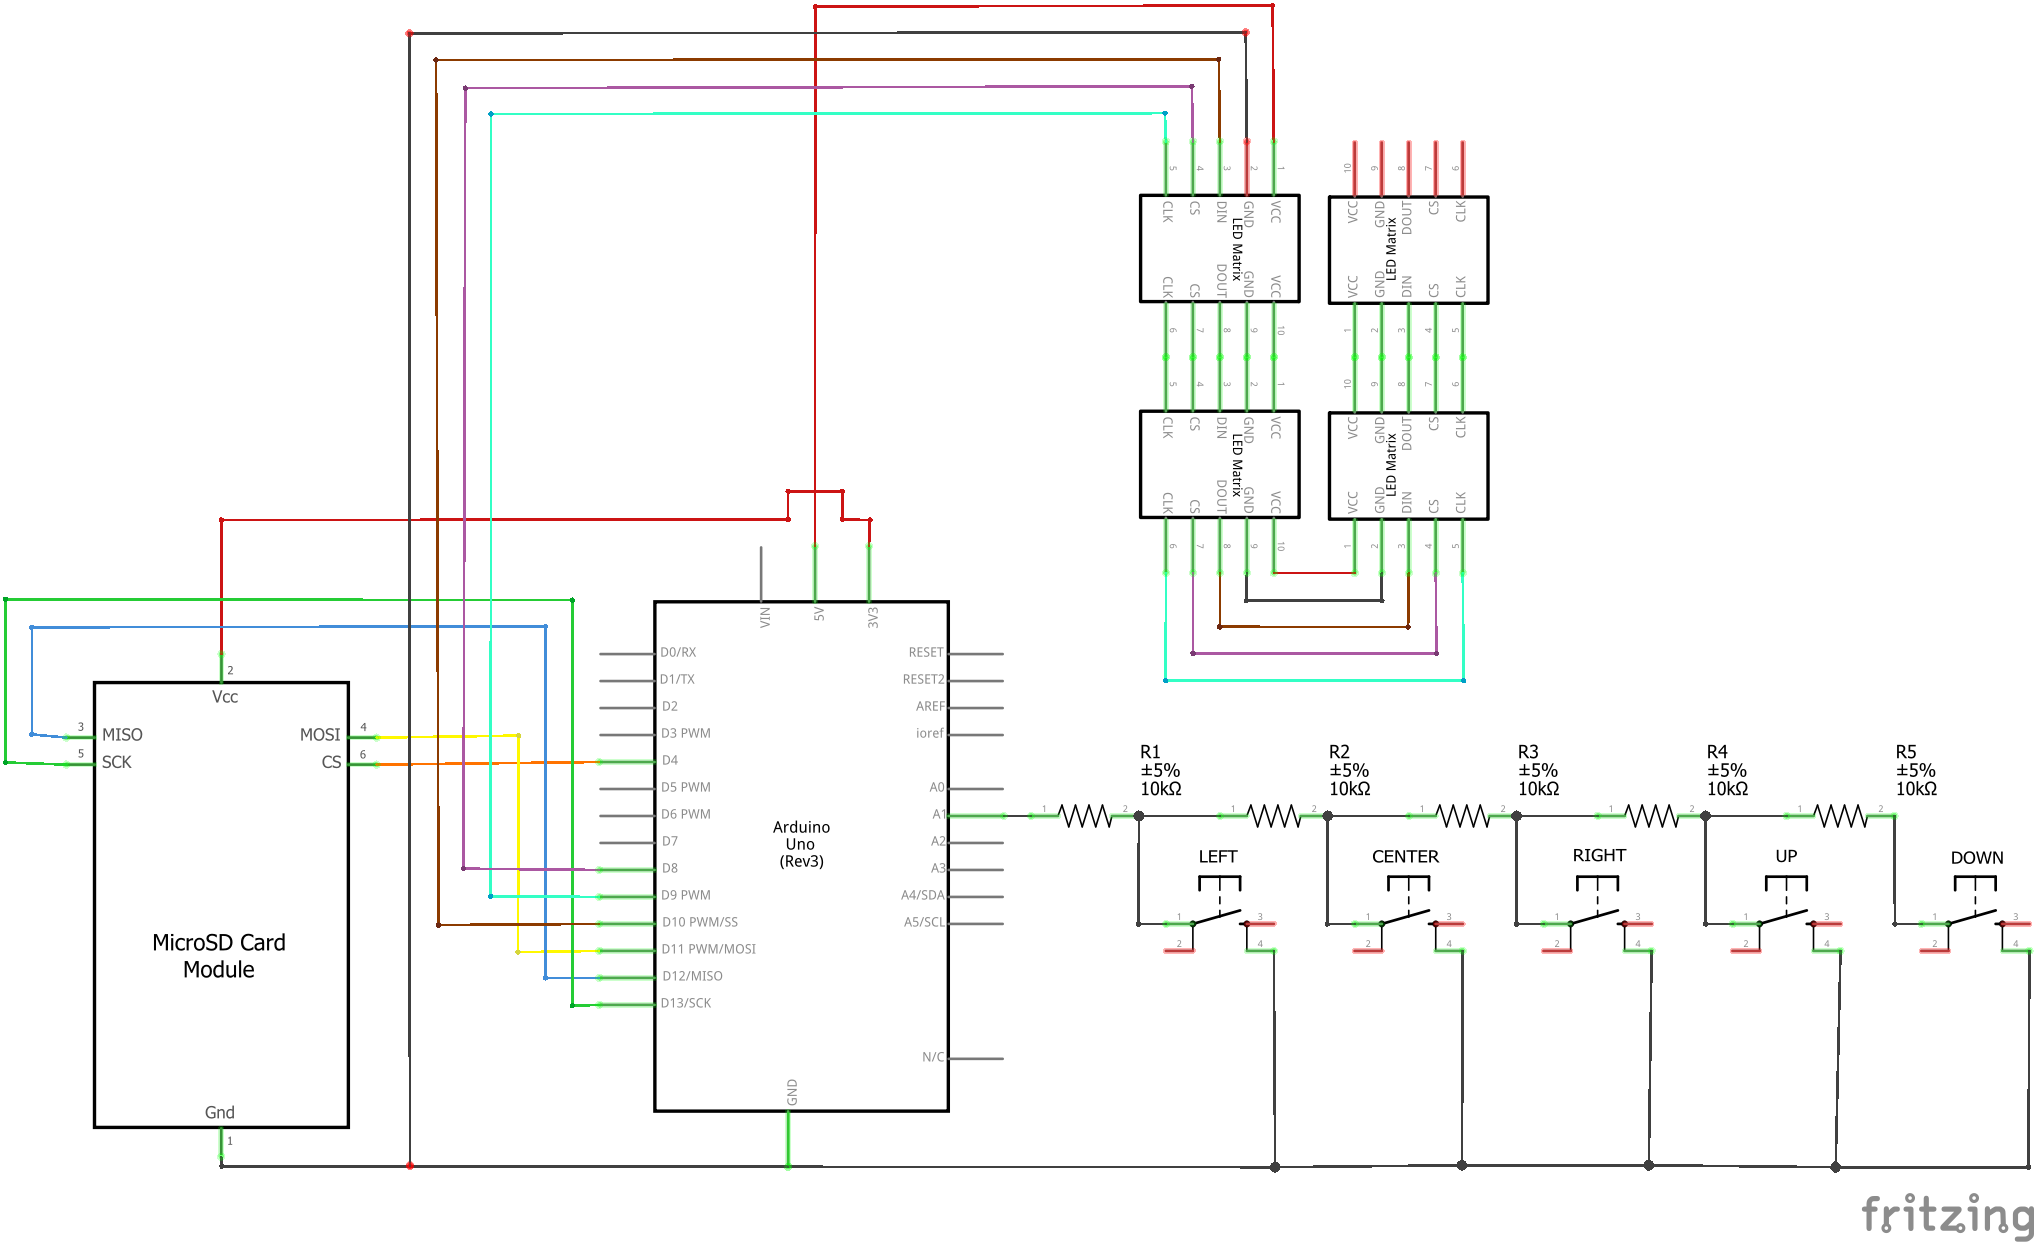
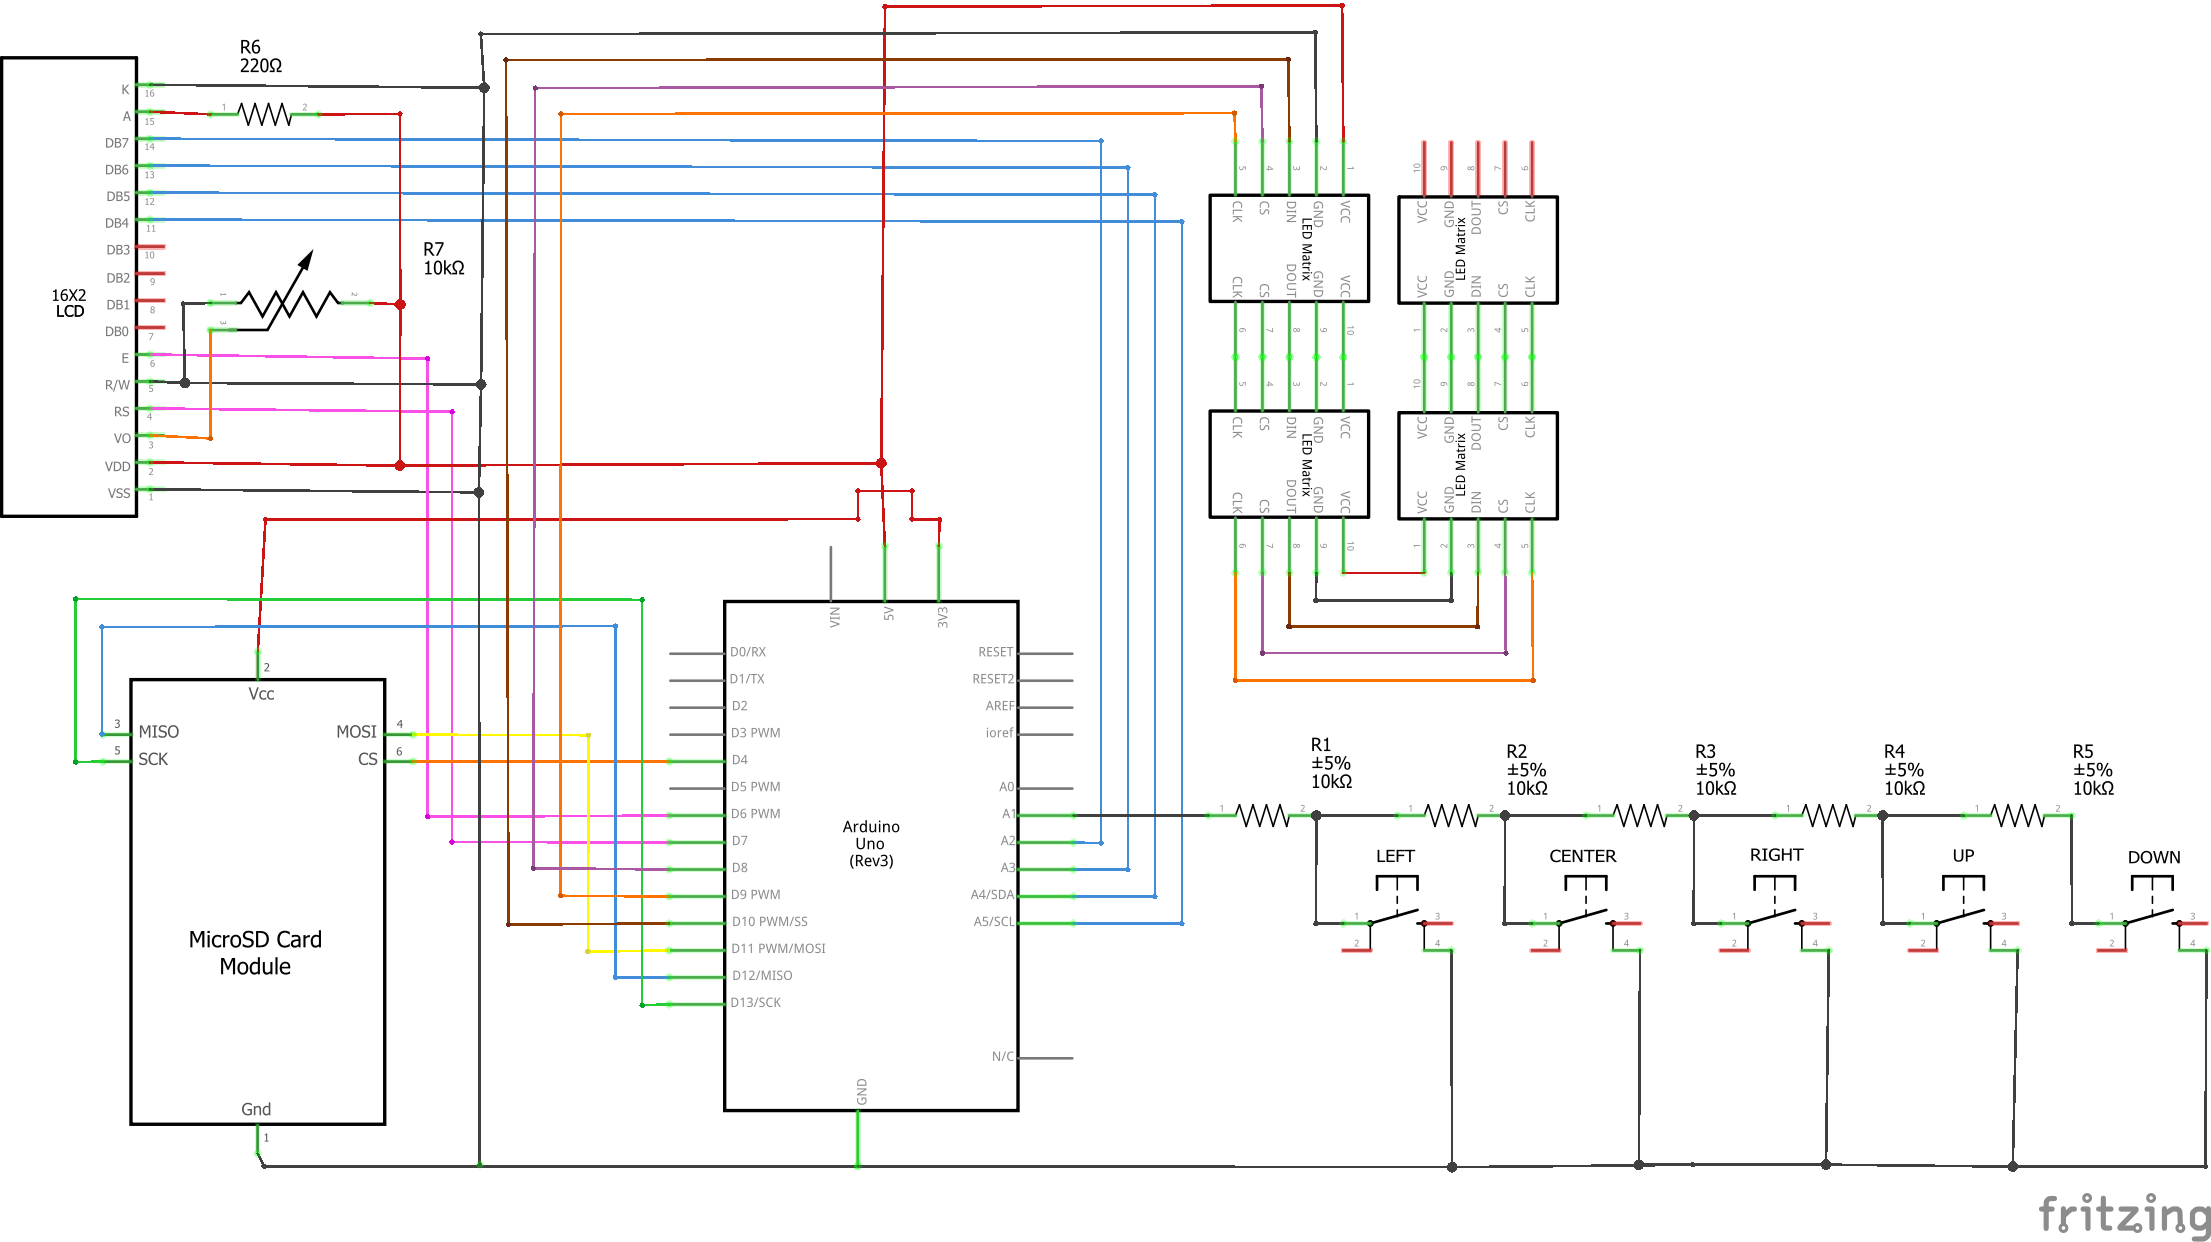
Add score (and best score, stored on SD card) management, using 16x2 LCD display

diff --git a/SDManager.cpp b/SDManager.cpp
@@ -66,7 +66,7 @@ TrueBool SDManager::readLevel(const int numLevel)
 void SDManager::writeBestScore(int bestScore)
 {
   File bestScoreFile;
-  String fileName = "Snake/bestScore.txt";
+  String fileName = "Snake/best.txt";
   
   if (SD.exists(fileName)) 
   {
@@ -91,10 +91,10 @@ void SDManager::writeBestScore(int bestScore)
 }
 
 /* Return the best score stored in the dedicated file */
-int getBestScore()
+int SDManager::getBestScore()
 {
   File bestScoreFile;
-  String fileName = "Snake/bestScore.txt";
+  String fileName = "Snake/best.txt";
   
   int i = 0;
   char tmp[10];

diff --git a/Snake.h b/Snake.h
@@ -2,6 +2,7 @@
 #include <Timer.h>
 #include <TrueRandom.h>
 #include <FourMatrix.h>
+#include <LiquidCrystal.h>
 #include "SnakeObject.h"
 #include "SDManager.h"
 
@@ -13,3 +14,10 @@
 #define PIN_BUTTONS A1
 /* Chip select of the SD card module */
 #define PIN_CS 4
+/* LCD pins */
+#define LCD_D7 A2
+#define LCD_D6 A3
+#define LCD_D5 A4
+#define LCD_D4 A5
+#define LCD_EN 6
+#define LCD_RS 7
